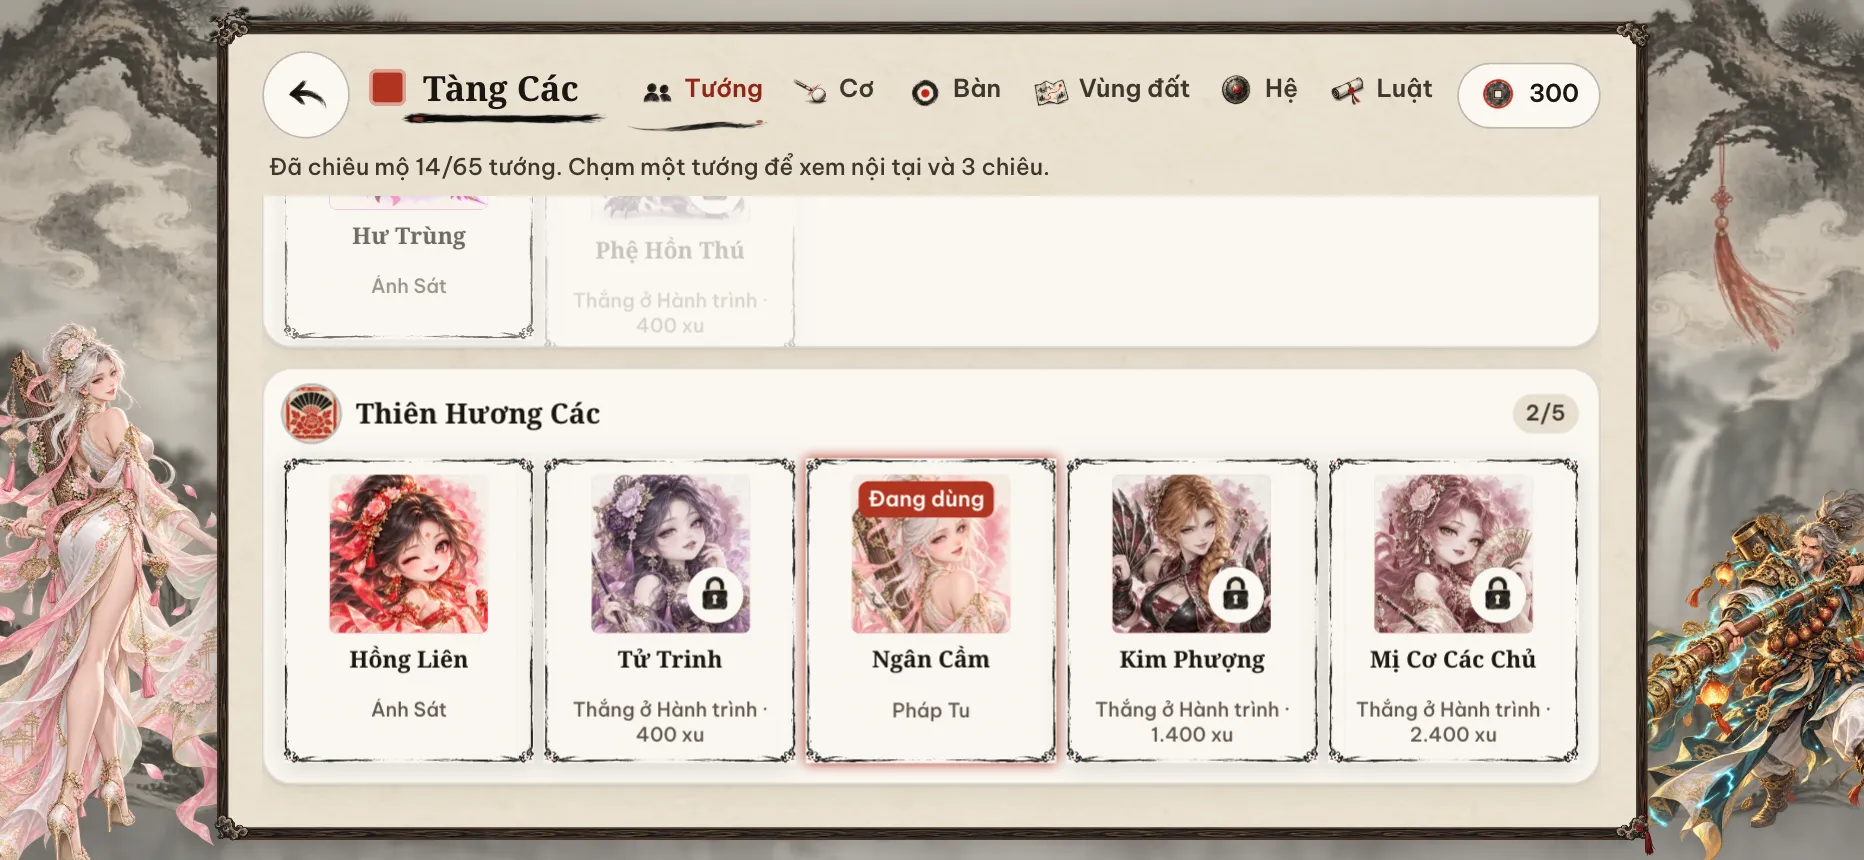
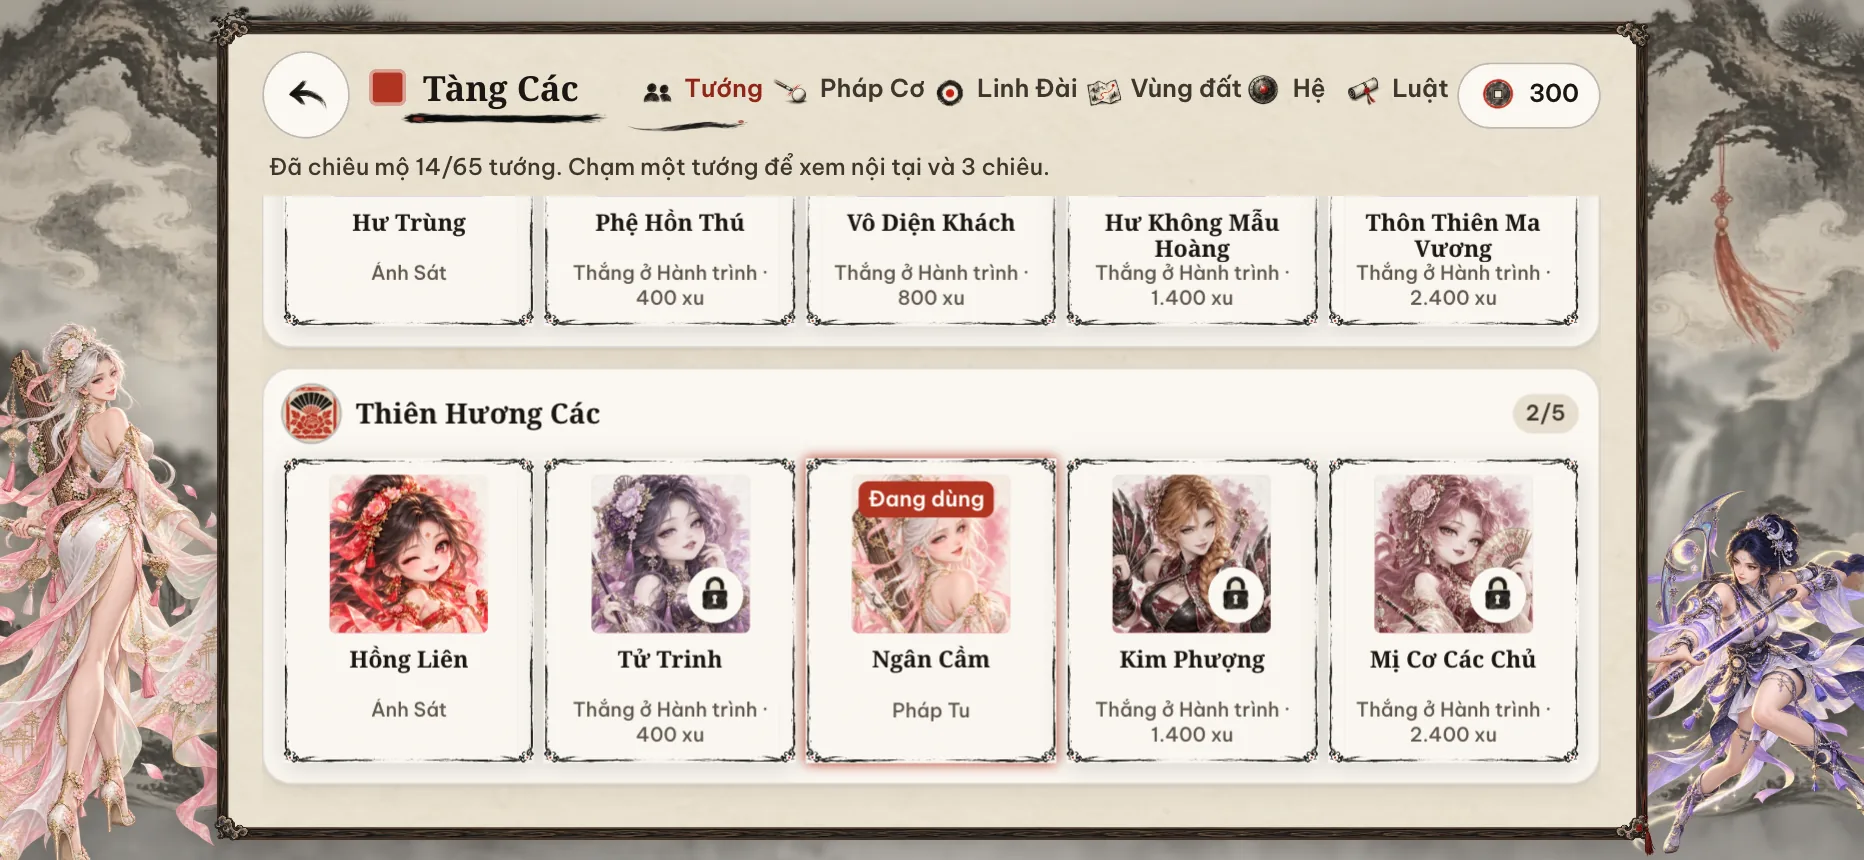
docs: describe the new wording, power bar and announcements, retake screenshots

diff --git a/docs/architecture.md b/docs/architecture.md
@@ -108,7 +108,7 @@ Tàng Các, cài đặt), `journey.ts` (bản đồ Hành trình), `codex.ts` (n
 `viewport-guard.ts` (bắt xoay ngang, kiểm tra cửa sổ trên máy tính), `hints.ts` / `intro.ts` (hướng dẫn).
 `icons.ts` cung cấp `icon(name)` để tạo icon tranh từ `public/art/ui/icons/`.
 
-Tàng Các gộp các tab vào thanh tiêu đề gọn để dành chiều cao cho nội dung: **Tướng, Cơ, Bàn** là đồ sở hữu, **Vùng đất, Hệ, Luật** là Cơ Tiên Lục. Trang tướng có nút **Tiểu sử** mở trang Cơ Tiên Lục của tướng đó (tiểu sử, câu nói, bộ tranh) khi tướng đã được khám phá, tức đã gặp hoặc đã sở hữu (`known`). Từng thẻ vùng đất có số tướng đã gặp riêng.
+Tàng Các gộp các tab vào thanh tiêu đề gọn để dành chiều cao cho nội dung: **Tướng, Pháp Cơ, Linh Đài** là đồ sở hữu, **Vùng đất, Hệ, Luật** là Cơ Tiên Lục. Trang tướng có nút **Tiểu sử** mở trang Cơ Tiên Lục của tướng đó (tiểu sử, câu nói, bộ tranh) khi tướng đã được khám phá, tức đã gặp hoặc đã sở hữu (`known`). Từng thẻ vùng đất có số tướng đã gặp riêng.
 
 **Luyện thế** là ô thứ sáu ở trang chủ. Màn chọn thế liệt kê thế mẫu (`PRACTICE_DRILLS` trong `src/game/practice.ts`) và Thế của tôi (tối đa 12, lưu ở khoá `cotien.practice.v1`, qua `sanitizeSaved`), với hình bàn vẽ từ chính hình học và màu bi của mô phỏng. Trong bàn, `practice-desk.ts` chiếm cột chiêu: chế độ **Xếp bi** có khay chứa mọi bi chưa ra bàn (chạm để đặt hoặc cất, kéo ra bàn, kéo bi ra mép để cất), chế độ **Đánh** có số cú/số bi vào, **Đánh lại** (`Match.undoShot` dùng ảnh chụp trước cú), **Về thế đầu**, **Lưu thế** và **Đường đi** (`Match.sight`, mô phỏng đường của mọi bi như Thần Nhãn).
 
@@ -134,7 +134,7 @@ cử chỉ trình duyệt ngoài vùng cuộn, nhưng cho cuộn trong `.scroll`
 
 Giữ hoặc kéo bi cái nhỏ mở một bi lớn cạnh cột điều khiển; ngón tay dời điểm đánh trên bi lớn, thả tay là đóng. Chạm nhanh bi cái nhỏ mở bảng áp phê: chạm hoặc kéo điểm đánh trên bi lớn, hoặc chọn Giữa, Trô, Cule, Giật, Trái, Phải. Bảng này cũng có thanh “Nâng cơ” 0–75° cho cú nhảy: lực và góc quyết định tầm bay, góc cao giảm tầm ngang; quá nhẹ có thể chạm bi chắn, quá mạnh có thể văng bàn. Chạm thanh lực đặt mức tại điểm chạm, kéo để tinh chỉnh từ mức hiện tại; chạm ĐÁNH dùng lực đã chọn. Gọi lỗ bằng cách chạm lỗ trên bàn; lỗ đã gọi hiện trong ô mục tiêu phía trên, nút đẩy bi (push-out) nằm trong cột điều khiển, không có gì đặt trên băng bàn. Giữ ĐÁNH cho lực dao động rồi thả để đánh; trượt ngón ra xa để huỷ.
 
-Chạm một bi hiện nhãn có ảnh bi thật và số bi; trong Luyện thế chỉ chạm-thả tại chỗ mới hiện nhãn, kéo bi chỉ dời bi. Ván 9 bi và 10 bi hiện hai bi tiếp theo theo thứ tự dưới cột chiêu. Thẻ người chơi có mũi tên son nhấp nhô trên chân dung người tới lượt và khay bi bằng ảnh bi thật (`ballPortrait`): 8 bi khi đã chia nhóm hiện đủ bảy bi, bi còn trên bàn mờ; còn lại là các bi người đó đã ăn. Ô nội tại giữ nguyên chiều cao và chỗ đứng giữa các cú để cột lực và ĐÁNH không nhảy. Thoát trận từ menu Tạm dừng luôn hỏi xác nhận. Thông báo giữa bàn là dải giấy `frame/herald.webp`, đóng khi chạm bất kỳ đâu hoặc nút ✕ vẽ nằm trong dải; công tắc “Thông báo giữa bàn” (Cài đặt, menu Tạm dừng) tắt chúng, trừ lỗi và thắng ván.
+Chạm một bi hiện nhãn có ảnh bi thật và số bi; trong Luyện thế chỉ chạm-thả tại chỗ mới hiện nhãn, kéo bi chỉ dời bi. Ván 9 bi và 10 bi hiện hai bi tiếp theo theo thứ tự dưới cột chiêu. Thẻ người chơi có mũi tên son nhấp nhô trên chân dung người tới lượt và khay bi bằng ảnh bi thật (`ballPortrait`): 8 bi khi đã chia nhóm hiện đủ bảy bi, bi còn trên bàn mờ; còn lại là các bi người đó đã ăn. Ô nội tại giữ nguyên chiều cao và chỗ đứng giữa các cú để cột lực và ĐÁNH không nhảy. Thoát trận từ menu Tạm dừng luôn hỏi xác nhận. Thông báo giữa bàn là dải giấy `frame/herald.webp`, đóng khi chạm bất kỳ đâu hoặc dấu ✕ mực nhỏ ở góc trên của dải, một đường chỉ son ở chân giấy rút dần cho biết thời gian còn lại; công tắc “Thông báo giữa bàn” (Cài đặt, menu Tạm dừng) tắt chúng, trừ lỗi và thắng ván.
 
 Khi có bi trong tay, kéo bi cái hoặc chạm bàn để dời; cụm nút hướng tròn (một tranh `art/ui/dpad.webp`, mỗi hướng là một phần tư trong suốt) chỉnh 3 mm mỗi chạm và nhanh dần khi giữ. “Ngắm thử” chuyển thao tác bàn sang ngắm, cho xem đường bi trước khi chốt; “Dời bi” quay lại đặt vị trí. Khi dời bi, cả cơ và tia ngắm đều ẩn; chỉ hiện lại ở Ngắm thử. “ĐẶT BI” xác nhận vị trí, không đánh ngay. Bước đặt chiêu là trạng thái riêng và dùng “THI TRIỂN” để xác nhận.
 
@@ -225,7 +225,7 @@ Tuyệt chiêu được ghi nhận khi xác nhận dùng nhưng phần diễn ho
 
 Giữ PixiJS WebGL cho bàn, bi, hiệu ứng; DOM cho điều khiển/menu/truyện. Đổi engine không tự giải quyết letterbox, layout hoặc trạng thái điều khiển.
 
-Mỗi lượt hiện tối đa một mẹo (`hintTurn`), mẹo còn lại quay lại ở lượt sau. Chạm bi trên bàn hiện nhãn có ảnh bi dựng bằng chính shader bi (`TableView.ballPortrait`). Khung chữ trong trận là ba tranh co giãn kiểu 9 lát (`border-image`, hai đầu giữ hình, phần giữa trơn kéo dài, chữ luôn cách hoa văn): dải mực `band.webp` cho thông báo lượt/lỗi/ghi điểm (~86%, quét qua phía trên giữa bàn, chạm bất kỳ hoặc nút ✕ để đóng, tắt được trong cài đặt), bảng tên `plate.webp` cho hai khung người chơi, tấm tên màn VS và thiết lập trận, cuộn giấy `scroll.webp` cho ô mục tiêu, nhãn bi, lời nhắc chiêu và trạng thái AI đang tính. Người chờ lượt mờ nhẹ. Thanh lực dùng thước dọc với phần trăm và giữ vùng kéo đầy đủ. Nội tại tách tên hệ và trạng thái; chưa đạt điều kiện chỉ hiện thông tin, hành động sẵn sàng dùng khung mực. Menu tạm dừng chia hai cột: tỉ số hai bên và ba công tắc nhanh (âm thanh, nhạc, thông báo) bên trái, cột hành động bên phải với Thoát trận tách riêng.
+Mỗi lượt hiện tối đa một mẹo (`hintTurn`), mẹo còn lại quay lại ở lượt sau. Chạm bi trên bàn hiện nhãn có ảnh bi dựng bằng chính shader bi (`TableView.ballPortrait`). Khung chữ trong trận là ba tranh co giãn kiểu 9 lát (`border-image`, hai đầu giữ hình, phần giữa trơn kéo dài, chữ luôn cách hoa văn): dải mực `band.webp` cho thông báo lượt/lỗi/ghi điểm (~86%, quét qua phía trên giữa bàn, chạm bất kỳ hoặc nút ✕ để đóng, tắt được trong cài đặt), bảng tên `plate.webp` cho hai khung người chơi, tấm tên màn VS và thiết lập trận, cuộn giấy `scroll.webp` cho ô mục tiêu, nhãn bi, lời nhắc chiêu và trạng thái AI đang tính. Người chờ lượt mờ nhẹ. Thanh lực dùng thước dọc với phần trăm và giữ vùng kéo đầy đủ; sau mỗi cú (kể cả của máy) thanh giữ lực vừa đánh cho tới khi tới lượt người chơi, rồi về mức lực riêng của người đó (mỗi bên Song Đấu giữ mức riêng). Nội tại tách tên hệ và trạng thái; chưa đạt điều kiện chỉ hiện thông tin, hành động sẵn sàng dùng khung mực. Menu tạm dừng chia hai cột: tỉ số hai bên và ba công tắc nhanh (âm thanh, nhạc, thông báo) bên trái, cột hành động bên phải với Thoát trận tách riêng.
 
 **Kết liễu** (`src/ui/finisher.ts`): ván thắng bằng chính cú sạch của người thắng (mọi thể loại, không tính Luyện Cơ/Luyện thế) mở màn tối, dải mực môn phái, tướng lao vào với bóng mờ (`champions/{id}/finisher.webp`, thiếu thì dùng cut-out), bi quyết định bay khỏi đầu cơ theo vệt mực vào lỗ mực nổ tung, màn rung, rồi dấu son "Kết liễu" kèm tên cú và bi; khoảng 2,7 giây, chạm để bỏ qua, giảm chuyển động thì hiện tĩnh. Hành trình bỏ khung thẻ, hòa mép tranh vào nền và ngăn cuộn quá biên lan ra ngoài.
 

diff --git a/AGENTS.md b/AGENTS.md
@@ -5,7 +5,7 @@ docs it links before large changes.
 
 ## What this is
 
-Cơ Tiên ("bida tu tiên"): a mobile-first landscape billiards game with real physics and WPA/UMB rules, set
+Cơ Tiên ("bida × tu tiên"): a mobile-first landscape billiards game with real physics and WPA/UMB rules, set
 in an original xianxia world of 13 sects and 65 champions with skills. TypeScript + Vite + PixiJS 8, shipped
 as a PWA on Cloudflare Pages (`https://cotien.khoinda.vn/`). No backend.
 
@@ -63,4 +63,4 @@ README and docs screenshots always use **Ngân Cầm** (`ngancam`) as the player
 
 ## Current controls
 
-Aim by dragging/tapping the table or the two rotation buttons. Holding or dragging the small cue-ball button opens a large ball to steer spin; tapping it opens the precise sheet (draggable point on the large ball, presets). Tap the power bar to set a level, drag to fine-tune, then tap ĐÁNH; tapping a ball on the table names it; announcements close on any tap or their ✕, and the Thông báo giữa bàn setting (Settings and pause menu) hides them except fouls and rack wins; pocket calls show in the objective plate and nothing sits on the rails; nine- and ten-ball show the next two balls; holding ĐÁNH charges an oscillating meter, sliding away cancels. Ball-in-hand uses drag/tap or the round painted direction pad, Ngắm thử / Dời bi, then ĐẶT BI. In Luyện thế a tap on a ball names it, a drag only moves it. The active player's portrait carries a bobbing turn arrow; each card shows a ball tray (eight-ball: the whole group, balls still on the table faded). Leaving a match asks for confirmation. Song Đấu lets each player set name, owned champion (never the same as the other) and cue, plus the table. The pause menu shows the score, three quick switches (sound, music, announcements) and one column of actions. Preserve the three champion-specific painted skill icons and detail-before-use flow. The outer frame excludes safe areas once; touch-target tokens compensate for DOM scale. Verify rendered sizes. Cue elevation in the spin sheet drives physical 2.5D jumps; preserve off-table rule handling. Ultimate presentation waits for ĐÁNH, then cut-in → table FX → cue strike → simulation.
+Aim by dragging/tapping the table or the two rotation buttons. Holding or dragging the small cue-ball button opens a large ball to steer spin; tapping it opens the precise sheet (draggable point on the large ball, presets). Tap the power bar to set a level, drag to fine-tune, then tap ĐÁNH; after any shot the bar keeps showing that shot's power until a human turn starts, then shows that seat's own setting (each Song Đấu seat keeps its own); tapping a ball on the table names it; announcements close on any tap or their ✕, and the Thông báo giữa bàn setting (Settings and pause menu) hides them except fouls and rack wins; pocket calls show in the objective plate and nothing sits on the rails; nine- and ten-ball show the next two balls; holding ĐÁNH charges an oscillating meter, sliding away cancels. Ball-in-hand uses drag/tap or the round painted direction pad, Ngắm thử / Dời bi, then ĐẶT BI. In Luyện thế a tap on a ball names it, a drag only moves it. The active player's portrait carries a bobbing turn arrow; each card shows a ball tray (eight-ball: the whole group, balls still on the table faded). Leaving a match asks for confirmation. Song Đấu lets each player set name, owned champion (never the same as the other) and cue, plus the table. The pause menu shows the score, three quick switches (sound, music, announcements) and one column of actions. Preserve the three champion-specific painted skill icons and detail-before-use flow. The outer frame excludes safe areas once; touch-target tokens compensate for DOM scale. Verify rendered sizes. Cue elevation in the spin sheet drives physical 2.5D jumps; preserve off-table rule handling. Ultimate presentation waits for ĐÁNH, then cut-in → table FX → cue strike → simulation.

diff --git a/README.md b/README.md
@@ -1,4 +1,4 @@
-# Cơ Tiên — bida tu tiên
+# Cơ Tiên — bida × tu tiên
 
 Game bida cho điện thoại (màn hình ngang) và máy tính, với vật lý và luật bida thật, đặt trong một thế giới
 tiên hiệp riêng: **Cơ Tiên Giới** — 13 môn phái, 65 tướng, mỗi tướng có nội tại và 3 chiêu. Cài được như ứng
@@ -28,7 +28,7 @@ dụng (PWA), chơi offline.
   tên, chọn tướng đã mở khoá (không trùng nhau) và cây cơ, cùng chọn bàn — không phụ thuộc tướng đại diện.
 - **Luyện Cơ:** luyện từng cú đánh qua các bài thế có lời giải, chấm sao.
 - **Luyện thế:** chọn một thế mẫu (phá bi, cắt mỏng, bi sát băng, bi kết, gỡ thế chặn, nhảy bi, ba băng…) hoặc thế mình đã lưu, xếp thêm bi từ khay bằng cách chạm hay kéo, rồi đánh tự do không luật. **Đánh lại** trả mọi bi về chỗ trước cú vừa đánh, **Đường đi** vẽ trước đường của mọi bi, **Lưu thế** giữ vị trí bàn vào Thế của tôi.
-- **Tàng Các:** chiêu mộ tướng, chọn cơ và bàn; các tab Vùng đất, Hệ, Luật là **Cơ Tiên Lục**, wiki trong game
+- **Tàng Các:** chiêu mộ tướng, chọn Pháp Cơ và Linh Đài; các tab Vùng đất, Hệ, Luật là **Cơ Tiên Lục**, wiki trong game
   về vùng đất, hệ và luật chơi. Trang tướng mở tiểu sử bằng nút Tiểu sử; tướng chưa gặp còn khoá.
 - **Hành trình:** bản đồ Cơ Tiên Giới; mỗi vùng có 5 cao thủ để thách đấu (thắng thì chiêu mộ được) và các
   thử thách. 60 thử thách được sinh tự động, mỗi bài có lời giải đã kiểm chứng bằng vật lý.
@@ -61,7 +61,7 @@ dụng (PWA), chơi offline.
 | --- | --- |
 | ![Trang chủ](docs/screenshots/trang-chu.webp) | ![Chọn trận Luận Cơ](docs/screenshots/luan-co.webp) |
 | Song Đấu | |
-| ![Song Đấu: mỗi bên chọn tướng, tên và cơ](docs/screenshots/song-dau.webp) | |
+| ![Song Đấu: mỗi bên chọn tướng, tên và Pháp Cơ](docs/screenshots/song-dau.webp) | |
 | Trận đấu · mũi tên chỉ lượt | Chiêu thức |
 | ![Trận đấu: mũi tên son trên chân dung người tới lượt](docs/screenshots/tran-dau.webp) | ![Thẻ chiêu thức](docs/screenshots/dat-chieu.webp) |
 | Tuyệt chiêu | Kết liễu |

diff --git a/docs/art-pipeline.md b/docs/art-pipeline.md
@@ -80,7 +80,7 @@ Tên tuyệt chiêu đặt trên tranh nét mực `ui/ultimate-banner.webp`.
 Khung chữ trong trận là ba tranh có phần giữa trơn để co giãn kiểu 9 lát: dải mực `ui/frame/band.webp`
 (thông báo), bảng tên `ui/frame/plate.webp` (khung người chơi, tên ở màn VS và thiết lập trận) và cuộn giấy
 `ui/frame/scroll.webp` (ô mục tiêu, nhãn bi, lời nhắc chiêu). Hoa văn chỉ nằm ở hai đầu để chữ không bao
-giờ đè lên. Nút đóng thông báo là đĩa giấy có dấu X nét cọ `ui/frame/close-seal.webp`. Khi vẽ khung mới
+giờ đè lên. Nút đóng thông báo là icon vẽ `close` thu nhỏ, mực nhạt ở góc trên dải giấy. Logo `ui/logo.webp` ghi dòng phụ “BIDA × TU TIÊN” (dấu × màu son); mũi tên `ui/rotate-arrow.webp` ở màn xoay ngang dùng màu son của game. Khi vẽ khung mới
 cho 9 lát, yêu cầu rõ trong prompt: phần giữa phẳng, đều, trống; trang trí chỉ ở hai đầu ngắn.
 
 Cây cơ môn phái (`sects/{id}/cue-a|b.webp`) có thể kèm tua rua hay chạm khắc chìa ra; game đo bề dày thân
